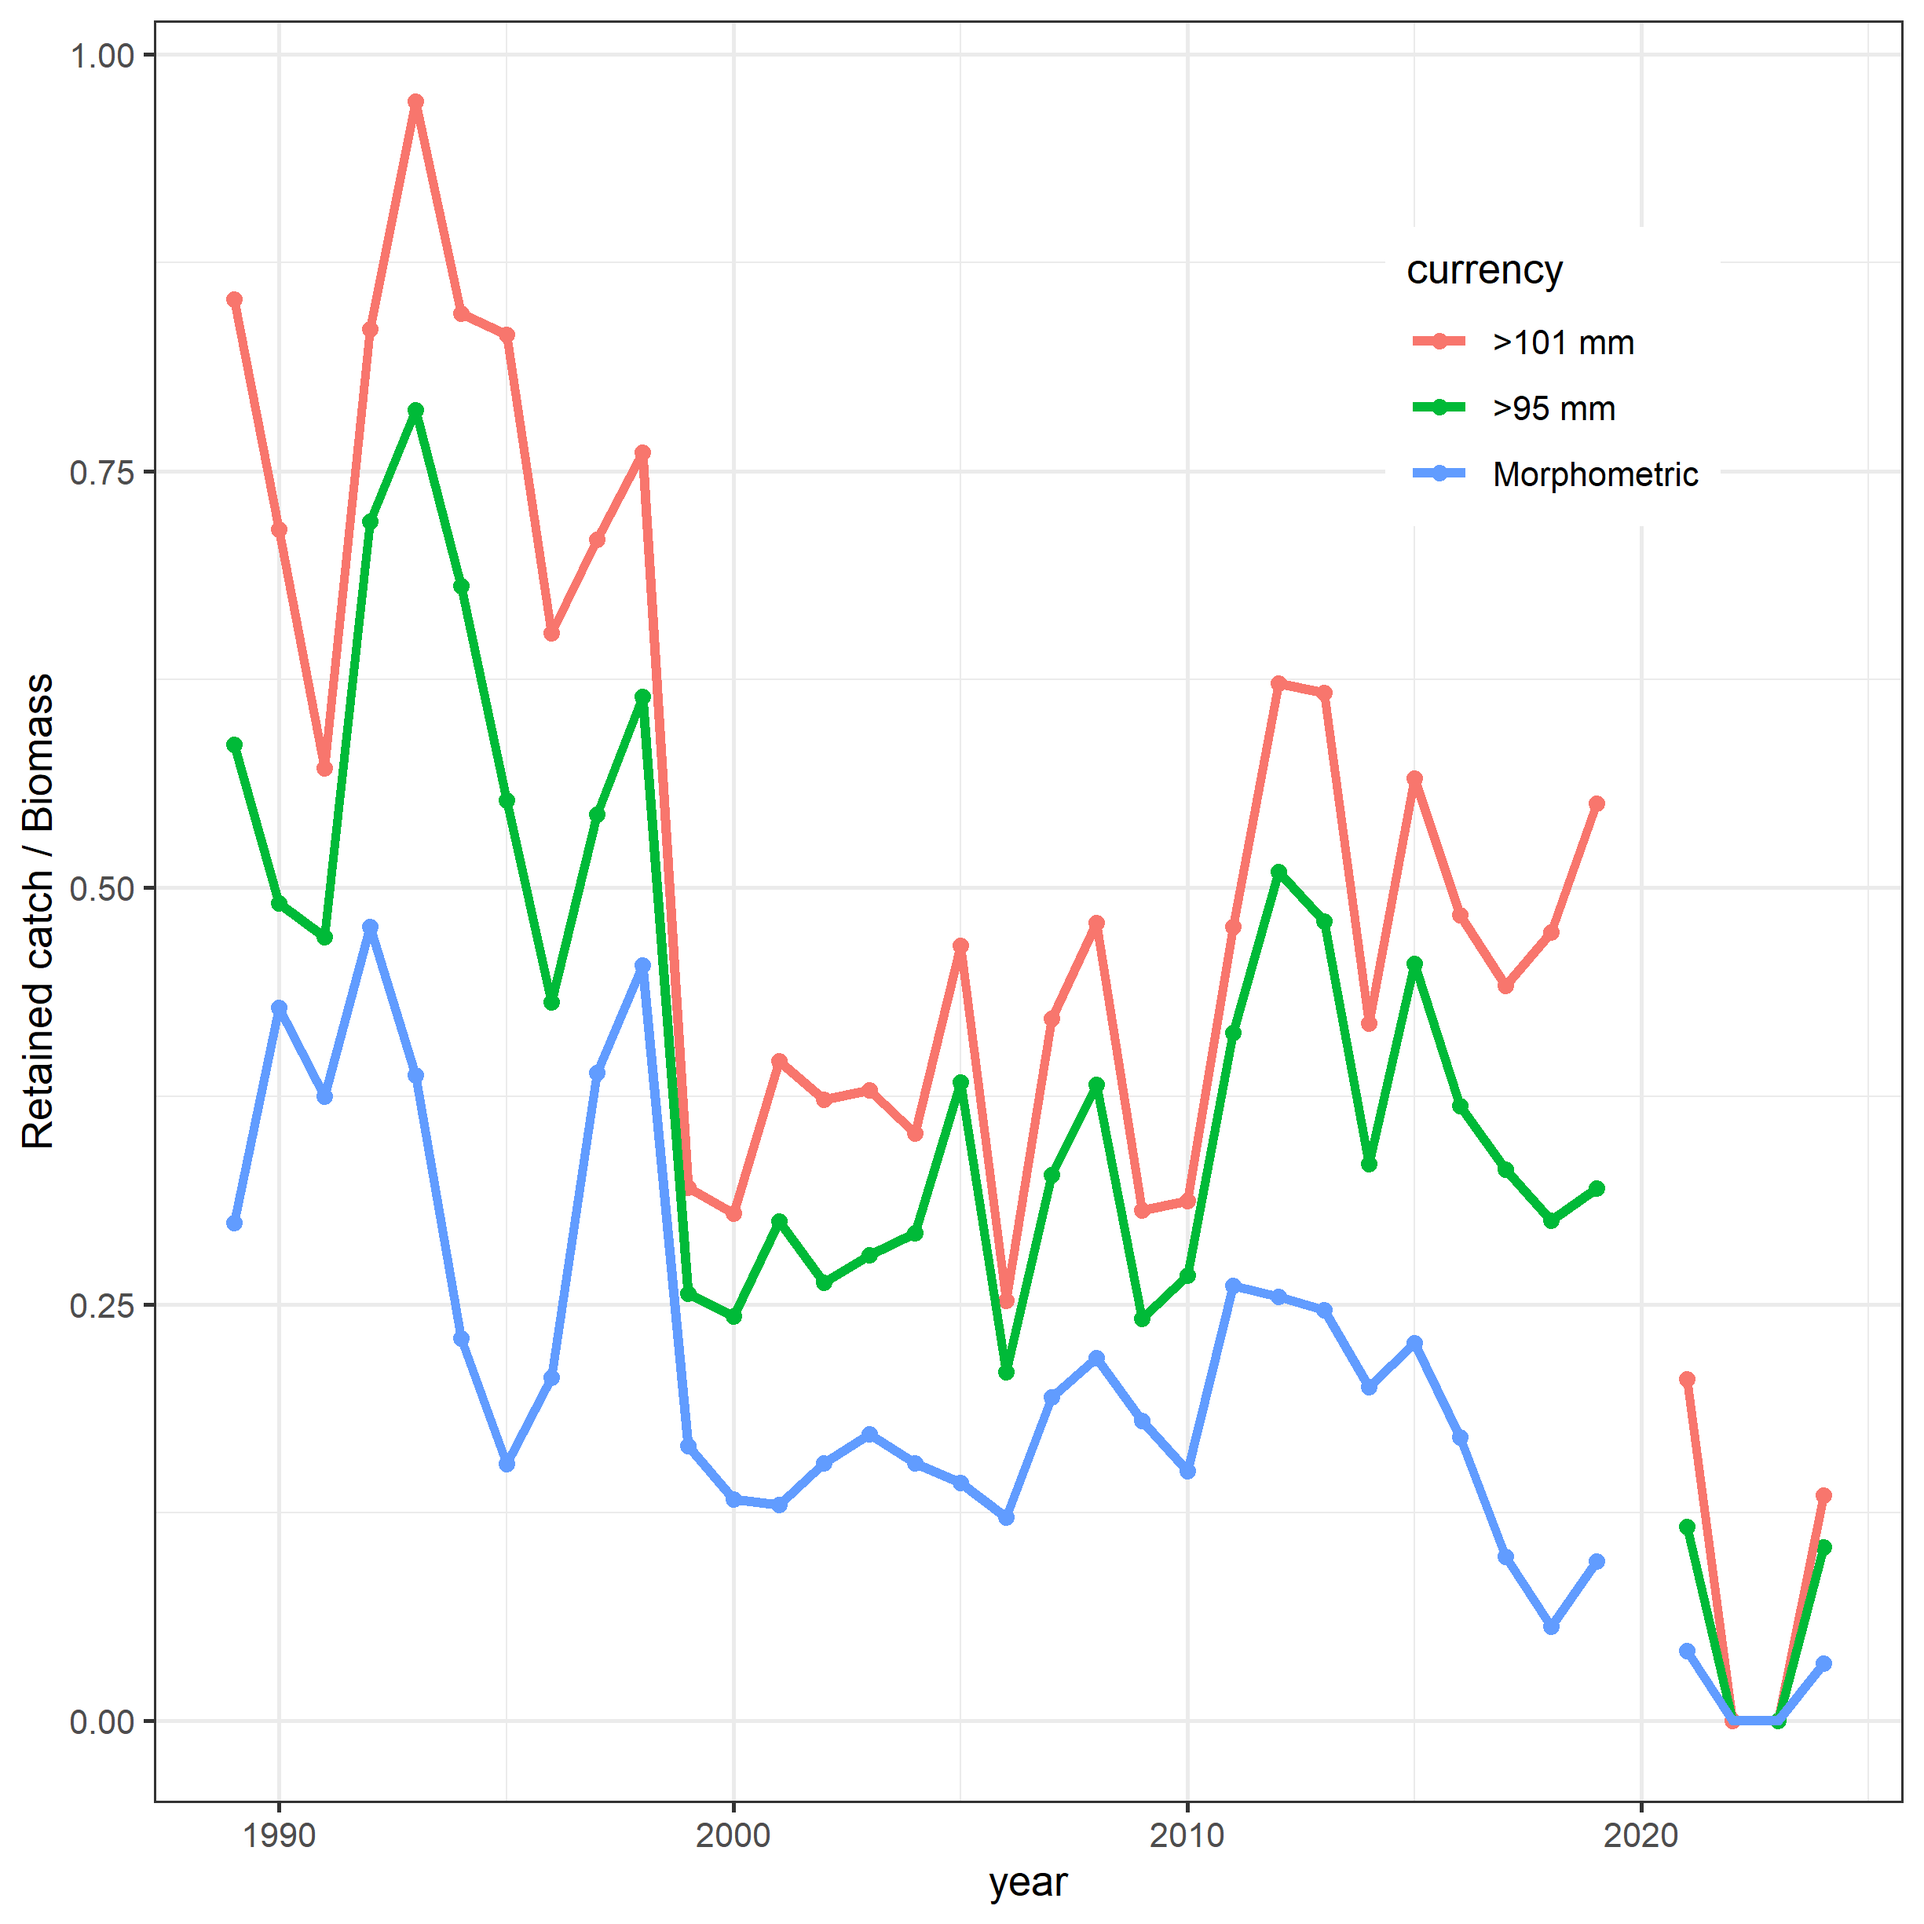
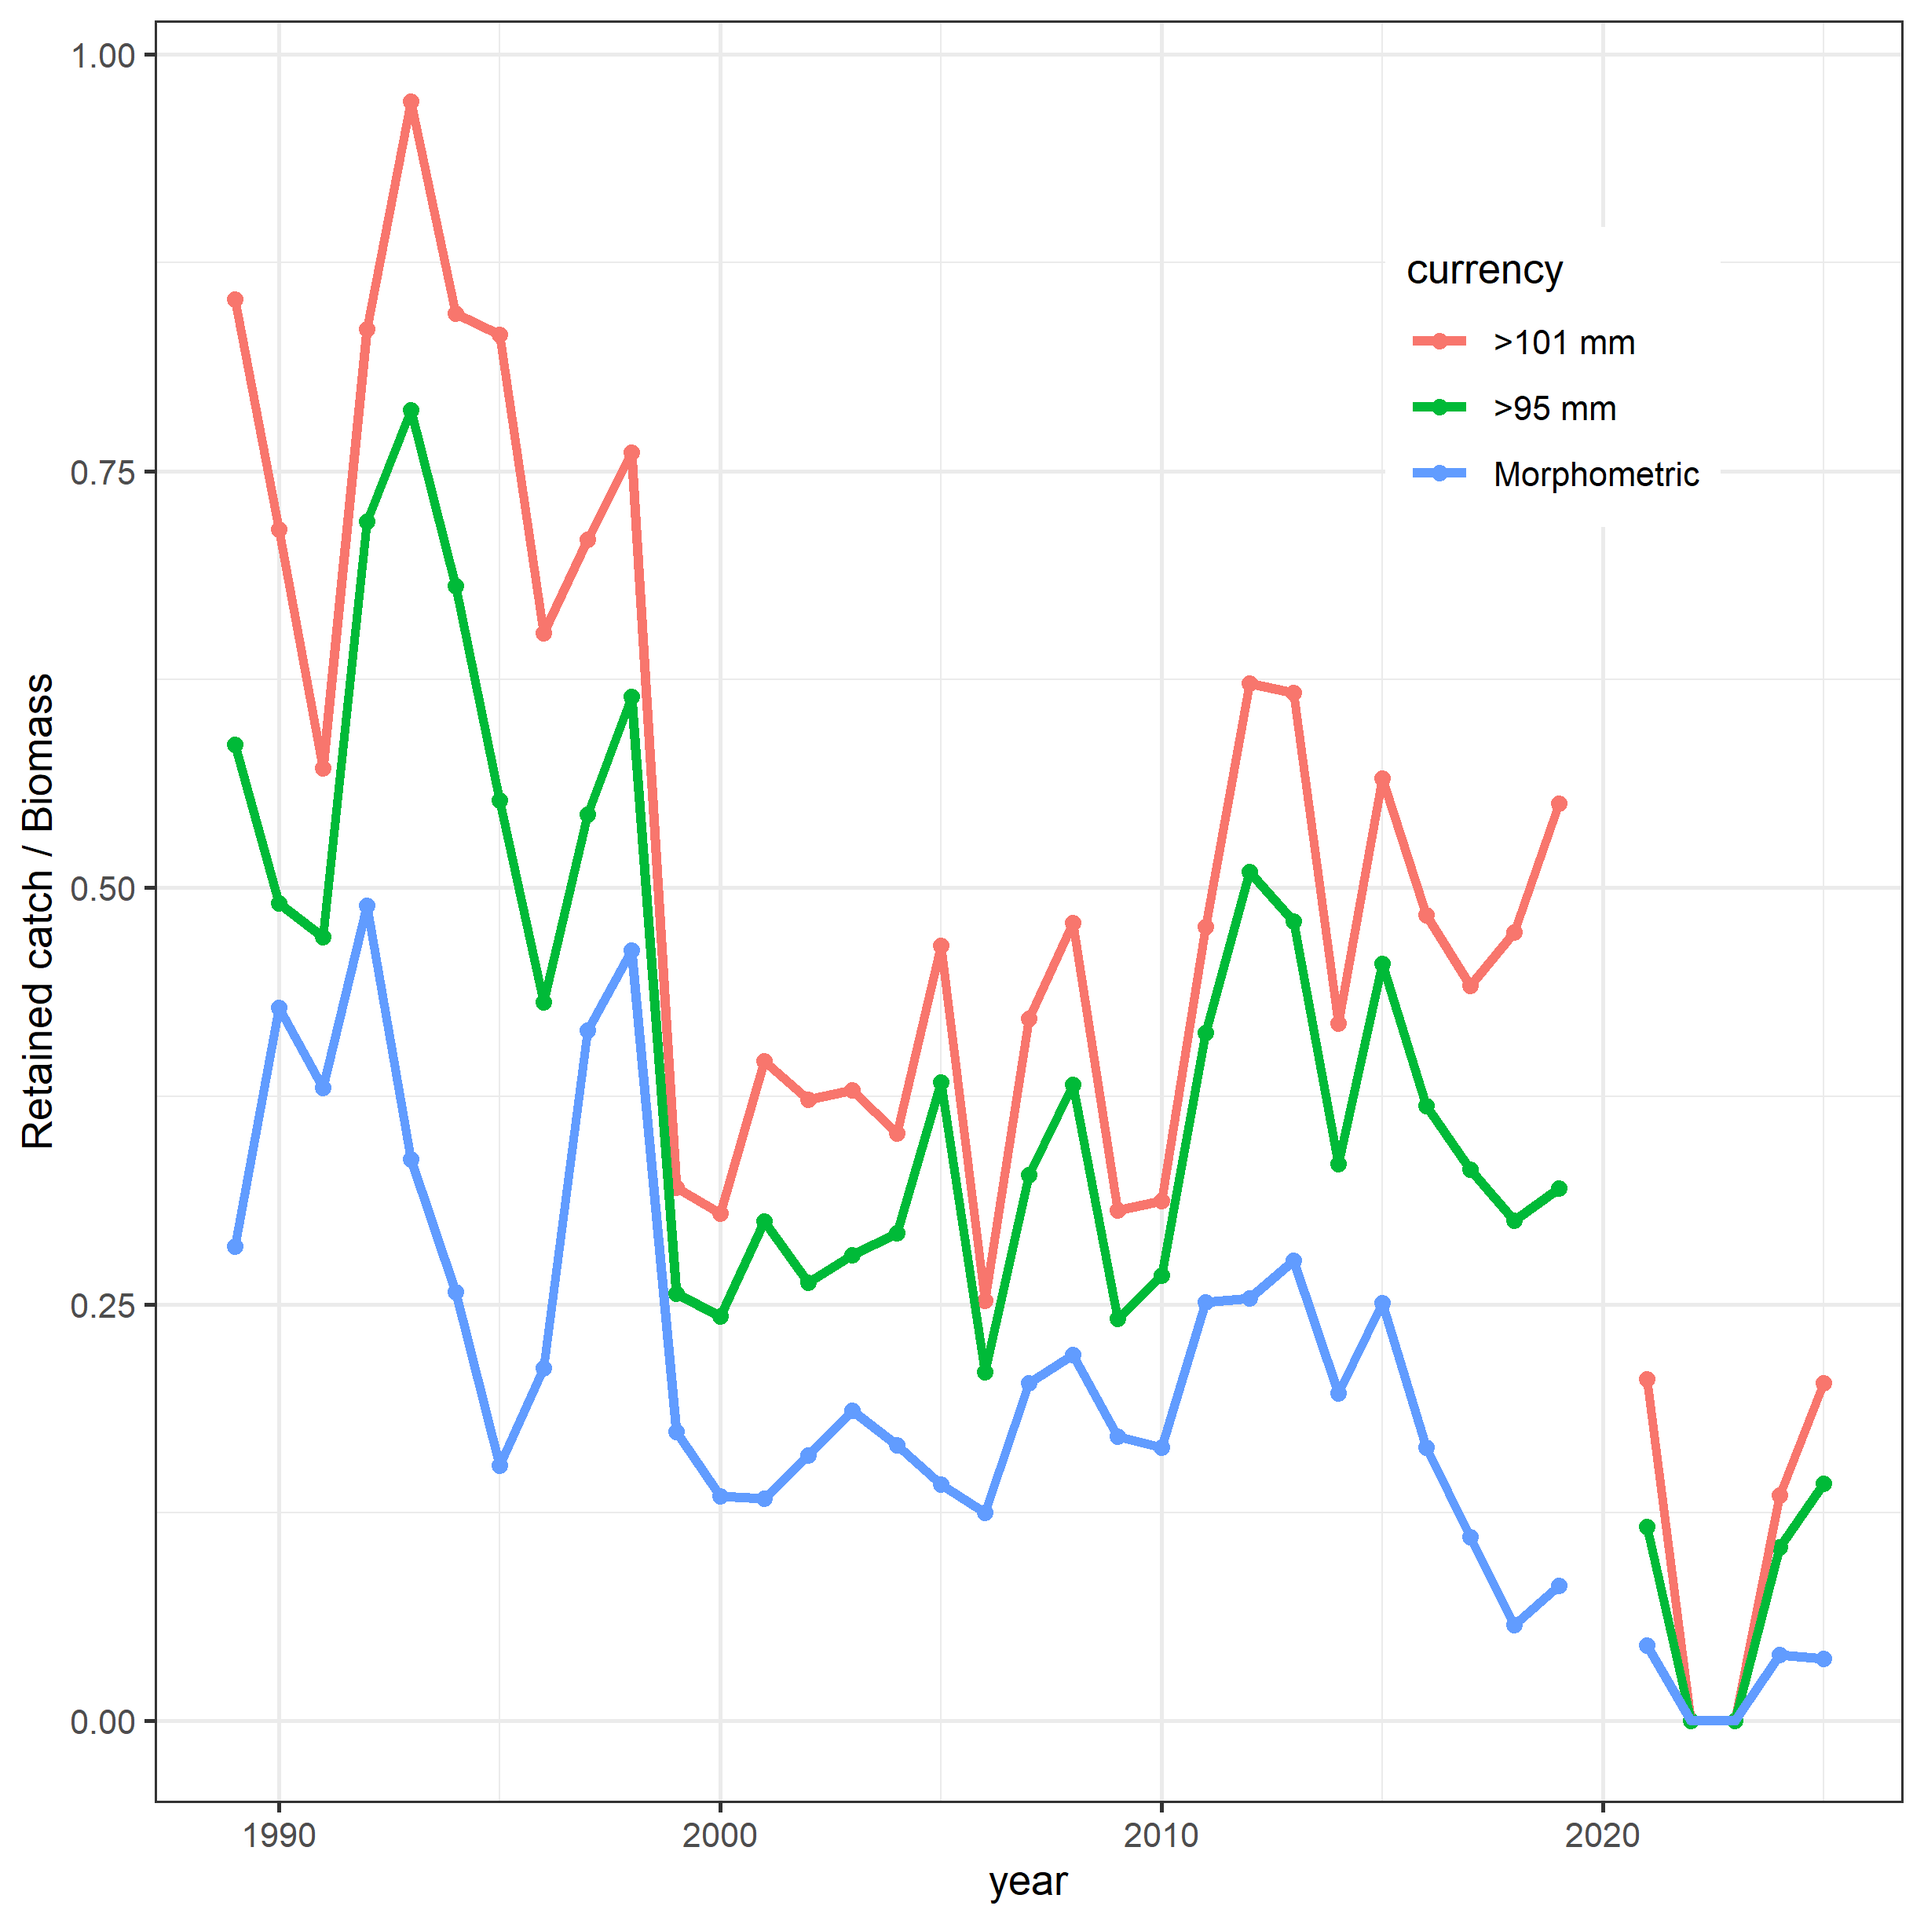
Repoint readers to new derived names; fix Tier-4 stale-MMB bug
07_calc_tier4.R read a stale index_mmb.txt, so Tier 4 ran on last cycle's MMB --
now reads survey_indices.csv (male/mature) aligned to surv_yr, and drops the
hardcoded 2020-gap year vectors. SAFE_snow_gmacs.Rmd repointed to
growth_increments.csv and survey_large_male_index_derived.csv (filtered
preferred_male). Regenerated the Tier-4 diagnostic plots.

Handoff docs (SESSION_HANDOFF, SEPT2026_SNOW_CRAB_BUILD_PLAN) now describe the
sensitivity ladder to run and report in the SAFE. gitignore the transient cwd
outputs (obs_exp_dat, rema_outs, opilio_*, Rplots.pdf).

diff --git a/docs/SESSION_HANDOFF.md b/docs/SESSION_HANDOFF.md
@@ -18,7 +18,16 @@ model can be advanced to End year 2025 and run. Narrative-section port is the ne
 ## Done & verified
 - **Toolchain**: R 4.5.1; `gmr`, `wtsGMACS`, `wtsUtilities`, `crabpack`, `rema`, bookdown/officedown/
   flextable/pacman. pandoc via Positron bundle (3.6.3) — `08_render_report.R` wires it in.
-- **Models** in `Models/`: `25_gmacs` (2025 reference) + `25_gmacs_update_newmat_plus_group` (accepted).
+- **Models** in `Models/`: `25_gmacs` (2025 reference), `25_gmacs_update_newmat_plus_group` (accepted May
+  baseline), `26_gmacs_update_newmat_plus_group` (Sept 2026, End yr 2025), plus a **SENSITIVITY LADDER**
+  built 2026-08 via `00_advance_model.R` to isolate each methodology change from the accepted baseline
+  (**RUN + COMPARE these for the SAFE "Summary of Major Changes"**):
+    - `25_gmacs_rightFALSE` — size-comp binning switched to right=FALSE (a crab on a 5-mm cutoff goes to
+      the UPPER bin, the previous survey convention); growth left as accepted (still carries the 73 typo).
+    - `25_gmacs_rightFALSE_growthfix` — adds the growth-data fix (a 26.3 mm crab's molt increment 73->7.3,
+      a `.DAT` transcription typo) on top of right=FALSE.
+  (`26` = both changes + the 2026 survey/fishery data.) A `25_gmacs_rightTRUE` was built then deleted
+  (right=TRUE dropped terminal MMB 114.6 -> 107.5; rejected).
 - **Scripts** de-hardcoded / advanced to 2025/26 windows; all parse. `03_build_results_object.R`
   (renamed from `03_buck_read_results.R`) runs headless and **verified** to build
   `Models/rda_ModelsResLst.RData` with the two correct case names matching the Rmd selectors.
@@ -45,8 +54,10 @@ model can be advanced to End year 2025 and run. Narrative-section port is the ne
   needs the exe if advanced to 2025 for the comparison (open design Q).
 - **`model_defs[N]` index audit** not yet done — Rmd references models by position in the full May
   list; `0-models.R` keeps the full list. Audit before pruning to the 2-model set.
-- Survey-year vectors in `07_calc_tier4.R` (`c(seq(1982,2019),seq(2021,2026))`) must match the actual 2026
-  crabpack pull length — flagged in-file.
+- Survey-year vectors in `07_calc_tier4.R` — **RESOLVED (2026-08)**: the hardcoded
+  `c(seq(1982,2019),seq(2021,2026))` vectors were replaced with `surv_yr`. `07` also had a real bug — it
+  read a stale `index_mmb.txt` (last cycle's MMB), so Tier 4 ran a cycle behind; now reads
+  `survey_indices.csv` (male/mature). Verified end-to-end (MMB through 2026, rema converges).
 
 ## Blocked on data / Cody (critical path)
 1. 2026 **summer-survey** crabpack pull (script 02 runs the pull; needs the survey loaded/available).
@@ -61,5 +72,8 @@ model can be advanced to End year 2025 and run. Narrative-section port is the ne
    `archive_2025/SAFE_snow_gmacs_2025_reference.Rmd`, matching `Reports/2025 snow.pdf`. See
    `docs/PORT_MAP.md`.
 2. Send `docs/EMAIL_to_tyler.md`; draft + send the Cody email (exe pin).
-3. When 2026 survey + exe land: run `01`/`02` → paste derived inputs into the `.DAT` → run gmacs →
-   `03_build_results_object.R` → `04`–`07` → `08_render_report.R`; then the `model_defs` index audit.
+3. **Model runs**: `01`/`02` now write clean `data/derived/*` (6 tidy files) and **`00_advance_model.R`**
+   writes them into the model `.DAT`/`.CTL` — no more hand-paste. The `26` model + the two
+   `25_gmacs_rightFALSE*` sensitivities are already built and GMACS-valid. Remaining: run gmacs on those
+   three → `03_build_results_object.R` (add the sensitivity cases + advance `model_defs`) → `04`–`07` →
+   `08_render_report.R`; then the `model_defs` index audit. **Report the sensitivity comparison in the SAFE.**

diff --git a/docs/SEPT2026_SNOW_CRAB_BUILD_PLAN.md b/docs/SEPT2026_SNOW_CRAB_BUILD_PLAN.md
@@ -139,7 +139,7 @@ Legend: **[PORT]** bring the complete version from the GitHub final into the wor
 8. **Render guard:** new/ported chunks reference runs that don't exist yet (male-only, 2019, final 2026). Guard them with `eval=FALSE` or smoke-test against the existing results object so the Rmd still knits during Phase 1; don't leave the document unrenderable.
 
 **Phase 2 — populate (blocked on 2026 survey pull + GMACS exe):**
-9. Build the runs that **do not yet exist** — the May final model advanced to End year 2025, plus the **male-only** and **data-through-2019** variants (none are in `Models/` today). Then `01`/`02` → `.DAT` → gmacs → `03` → `05` retro → `06` jitter → `07` Tier 4 (REMA) → `08` render.
+9. **Model runs.** `01`/`02` now write clean `data/derived/*` (6 tidy files) and **`00_advance_model.R`** writes them into the model `.DAT`/`.CTL` — this replaces the manual paste. **Already built (2026-08):** the May final model advanced to **End year 2025** (`26_gmacs_update_newmat_plus_group`, GMACS-valid) plus two **methodology sensitivities** that isolate each change from the accepted baseline — `25_gmacs_rightFALSE` (size-comp binning → right=FALSE, i.e. a crab on a 5-mm cutoff goes to the upper bin) and `25_gmacs_rightFALSE_growthfix` (adds the growth-typo fix, a 26.3 mm crab's increment 73→7.3). **Still to build:** the **male-only** and **data-through-2019** variants. Then run gmacs on each → `03` → `05` retro → `06` jitter → `07` Tier 4 (REMA) → `08` render. **Report the sensitivity comparison** (edge convention + growth fix, each vs the accepted model) in the SAFE "Summary of Major Changes".
 10. Repopulate every management quantity from the real runs (both currencies); report terminal-year MMB + MSST (row 411). Do not carry Phase-1 placeholders.
 
 **Do not:** re-plumb in the legacy gmr code; keep hybrid model runs; treat the immature index as a convergence fix; generalize Model 25.2d's extreme F values; add the groundfish-only [N/A] sections.
